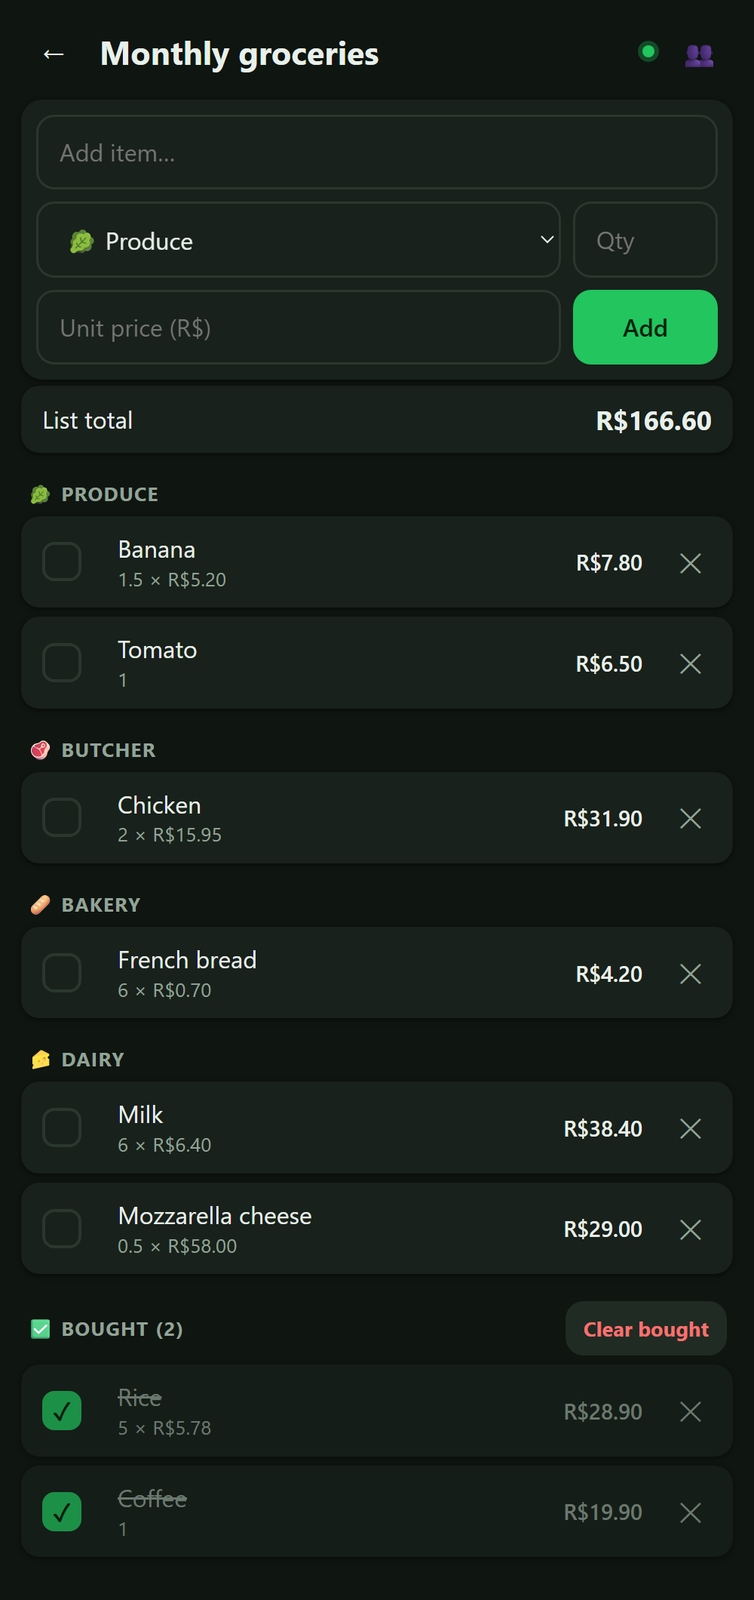
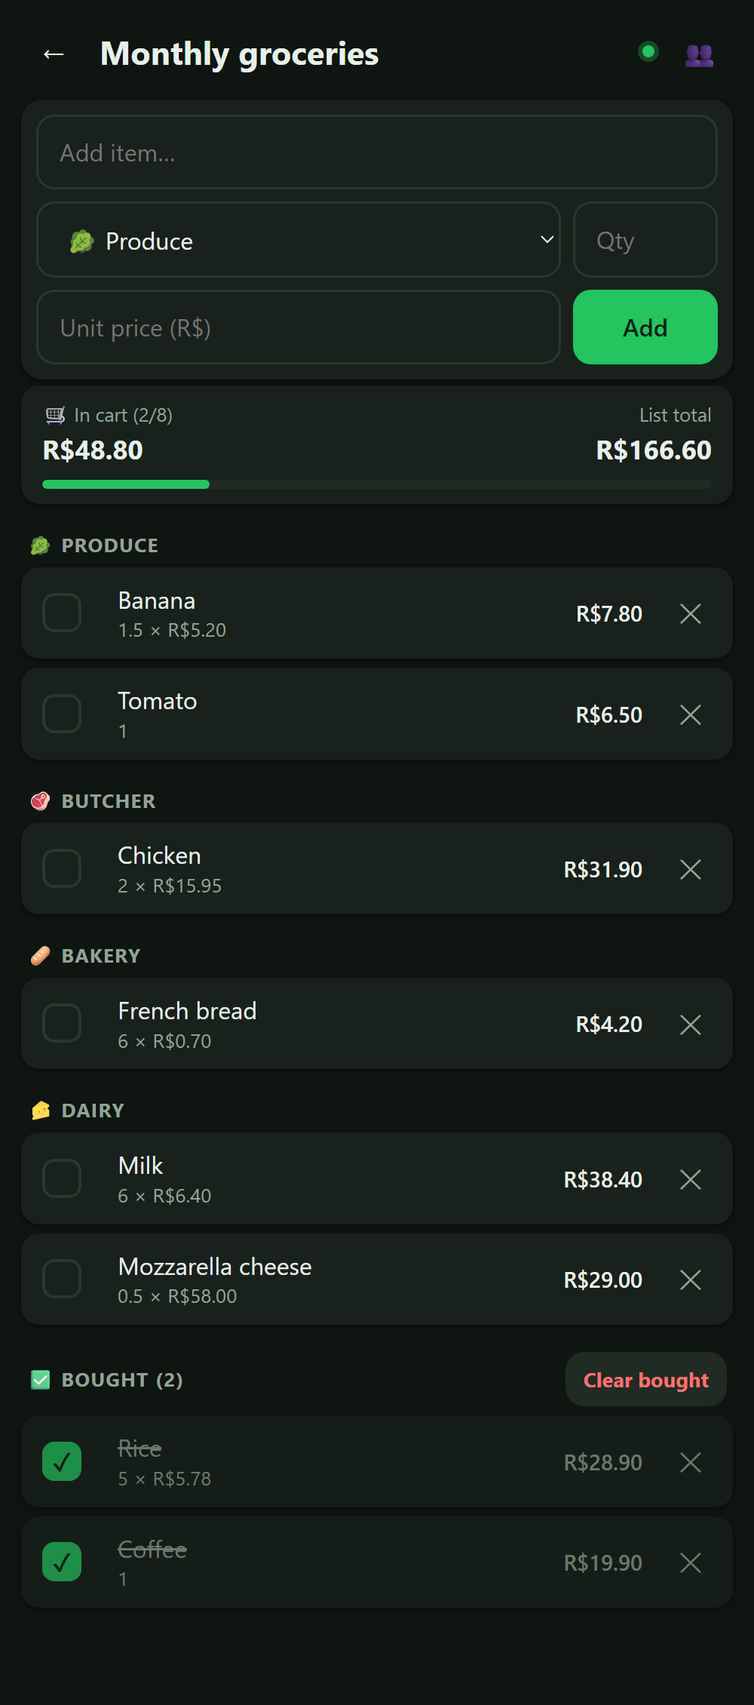
barra do carrinho na lista e botao para voltar ao site na tela de login; capturas e textos atualizados

diff --git a/js/i18n.js b/js/i18n.js
@@ -27,6 +27,7 @@ export function setLang(l) {
 export const numLocale = () => NUM_LOCALE[lang];
 export const decimalSep = () => (lang === 'en' ? '.' : ',');
 
+export const SITE_URL = { pt: '/', en: '/en/', es: '/es/' }; // site da FLR Sistemas, no idioma atual
 export const HELP_URL = { pt: '/listadecompras/ajuda/', en: '/listadecompras/ajuda/en/', es: '/listadecompras/ajuda/es/' };
 export const PRIVACY_URL = { pt: '/listadecompras/privacy.html', en: '/listadecompras/privacy-en.html', es: '/listadecompras/privacy-es.html' };
 
@@ -60,7 +61,7 @@ const DICT = {
     addItemPh: 'Add item…', category: 'Category', qtyPh: 'Qty', qtyLabel: 'Quantity', pricePh: 'Unit price (R$)', priceLabel: 'Unit price', add: 'Add',
     noConnAdd: 'No connection: cannot add right now', errAddItem: 'Error adding item', errLoadItems: 'Error loading items',
     markItem: 'Mark item', remove: 'Remove', emptyList: 'Empty list.<br>Add the first item above 👆',
-    bought: '✅ Bought ({n})', clearBought: 'Clear bought', totalList: 'List total',
+    inCart: 'In cart', bought: '✅ Bought ({n})', clearBought: 'Clear bought', totalList: 'List total',
     noConnRetry: 'No connection: try again when you are back online', errUpdateItem: 'Error updating item',
     noConn: 'No connection', errRemoveItem: 'Error removing item',
     confirmClear: 'Remove {n} bought item(s)?', errClear: 'Error clearing bought items',
@@ -72,11 +73,12 @@ const DICT = {
     errDeleteList: 'Error deleting list', confirmLeave: 'Leave this list?', errLeave: 'Error leaving the list',
     srvOwnerOnly: 'Only the list owner can share it', srvNoUser: 'No registered user with this e-mail',
     refreshApp: 'Update app', refreshing: 'Updating…', refreshNeedsNet: 'Connect to the internet to update the app.', refreshFail: "Couldn't update now. Check your connection and try again.",
+    backToSite: 'Back to the FLR Sistemas site',
     tipsBtn: 'Tips', tipsTitle: '💡 Tips', tipOk: 'Got it', tipOff: "Don't show tips again", tipReset: 'Show the tips again',
     tip_welcome_t: 'Welcome to Lista de Compras! 👋',
     tip_welcome_b: '<ul><li><b>Create a list</b> in the field above, like "Monthly groceries".</li><li><b>Invite whoever shops with you</b> with the 👥 icon inside the list. Everyone sees the check marks instantly.</li><li><b>Install it on your phone:</b> in the browser menu ⋮ tap "Install app" (iPhone: Share → Add to Home Screen).</li></ul>',
     tip_list_t: 'How to use the list 🛒',
-    tip_list_b: '<ul><li><b>Tap the checkbox</b> to mark an item as bought. Tap the <b>name</b> to edit it and the ✕ to remove it.</li><li><b>Unit price × quantity:</b> enter the price of one unit and the quantity; the app calculates the item total and the list total.</li><li><b>No signal?</b> You can still check, add, edit and remove items: they sync when the connection returns.</li></ul>',
+    tip_list_b: '<ul><li><b>Tap the checkbox</b> to mark an item as bought. Tap the <b>name</b> to edit it and the ✕ to remove it.</li><li><b>Unit price × quantity:</b> enter the price of one unit and the quantity; the app calculates the item total and the list total. The top bar shows what is already <b>in the cart</b> and the list total.</li><li><b>No signal?</b> You can still check, add, edit and remove items: they sync when the connection returns.</li></ul>',
     tip_share_t: 'Sharing the list 👥',
     tip_share_b: 'The person needs an account in the app, with the <b>same e-mail</b> you type. Members see and check items, and can leave the list whenever they want. Only you, the owner, can delete the list.',
   },
@@ -103,7 +105,7 @@ const DICT = {
     addItemPh: 'Adicionar item…', category: 'Categoria', qtyPh: 'Qtd', qtyLabel: 'Quantidade', pricePh: 'Preço unitário (R$)', priceLabel: 'Preço unitário', add: 'Adicionar',
     noConnAdd: 'Sem conexão: não é possível adicionar agora', errAddItem: 'Erro ao adicionar item', errLoadItems: 'Erro ao carregar itens',
     markItem: 'Marcar item', remove: 'Remover', emptyList: 'Lista vazia.<br>Adicione o primeiro item acima 👆',
-    bought: '✅ Comprados ({n})', clearBought: 'Limpar comprados', totalList: 'Total da lista',
+    inCart: 'No carrinho', bought: '✅ Comprados ({n})', clearBought: 'Limpar comprados', totalList: 'Total da lista',
     noConnRetry: 'Sem conexão: tente novamente quando voltar o sinal', errUpdateItem: 'Erro ao atualizar item',
     noConn: 'Sem conexão', errRemoveItem: 'Erro ao remover item',
     confirmClear: 'Remover {n} item(ns) comprado(s)?', errClear: 'Erro ao limpar comprados',
@@ -115,11 +117,12 @@ const DICT = {
     errDeleteList: 'Erro ao excluir lista', confirmLeave: 'Sair desta lista?', errLeave: 'Erro ao sair da lista',
     srvOwnerOnly: 'Somente o dono da lista pode compartilhá-la', srvNoUser: 'Nenhum usuário cadastrado com este e-mail',
     refreshApp: 'Atualizar app', refreshing: 'Atualizando…', refreshNeedsNet: 'Conecte-se à internet para atualizar o app.', refreshFail: 'Não foi possível atualizar agora. Verifique a conexão e tente de novo.',
+    backToSite: 'Voltar ao site da FLR Sistemas',
     tipsBtn: 'Dicas', tipsTitle: '💡 Dicas', tipOk: 'Entendi', tipOff: 'Não mostrar mais dicas', tipReset: 'Mostrar as dicas de novo',
     tip_welcome_t: 'Bem-vindo ao Lista de Compras! 👋',
     tip_welcome_b: '<ul><li><b>Crie uma lista</b> no campo acima, como "Mercado do mês".</li><li><b>Convide quem compra com você</b> pelo ícone 👥 dentro da lista. Todos veem as marcações na hora.</li><li><b>Instale no celular:</b> no menu ⋮ do navegador, toque em "Instalar app" (iPhone: Compartilhar → Adicionar à Tela de Início).</li></ul>',
     tip_list_t: 'Como usar a lista 🛒',
-    tip_list_b: '<ul><li><b>Toque no quadradinho</b> para marcar como comprado. Toque no <b>nome</b> para editar e no ✕ para remover.</li><li><b>Preço unitário × quantidade:</b> informe o preço de uma unidade e a quantidade; o app calcula o total do item e o da lista.</li><li><b>Sem sinal?</b> Pode marcar, adicionar, editar e remover itens do mesmo jeito: eles sincronizam quando a conexão voltar.</li></ul>',
+    tip_list_b: '<ul><li><b>Toque no quadradinho</b> para marcar como comprado. Toque no <b>nome</b> para editar e no ✕ para remover.</li><li><b>Preço unitário × quantidade:</b> informe o preço de uma unidade e a quantidade; o app calcula o total do item e o da lista. A barra do topo mostra o que já está <b>no carrinho</b> e o total da lista.</li><li><b>Sem sinal?</b> Pode marcar, adicionar, editar e remover itens do mesmo jeito: eles sincronizam quando a conexão voltar.</li></ul>',
     tip_share_t: 'Compartilhar a lista 👥',
     tip_share_b: 'A pessoa precisa ter uma conta no app, com o <b>mesmo e-mail</b> que você digitar. Quem participa vê e marca os itens, e pode sair da lista quando quiser. Só você, o dono, pode excluir a lista.',
   },
@@ -146,7 +149,7 @@ const DICT = {
     addItemPh: 'Agregar artículo…', category: 'Categoría', qtyPh: 'Cant.', qtyLabel: 'Cantidad', pricePh: 'Precio unitario (R$)', priceLabel: 'Precio unitario', add: 'Agregar',
     noConnAdd: 'Sin conexión: no se puede agregar ahora', errAddItem: 'Error al agregar el artículo', errLoadItems: 'Error al cargar los artículos',
     markItem: 'Marcar artículo', remove: 'Quitar', emptyList: 'Lista vacía.<br>Agrega el primer artículo arriba 👆',
-    bought: '✅ Comprados ({n})', clearBought: 'Limpiar comprados', totalList: 'Total de la lista',
+    inCart: 'En el carrito', bought: '✅ Comprados ({n})', clearBought: 'Limpiar comprados', totalList: 'Total de la lista',
     noConnRetry: 'Sin conexión: inténtalo de nuevo cuando vuelva la señal', errUpdateItem: 'Error al actualizar el artículo',
     noConn: 'Sin conexión', errRemoveItem: 'Error al quitar el artículo',
     confirmClear: '¿Quitar {n} artículo(s) comprado(s)?', errClear: 'Error al limpiar los comprados',
@@ -158,11 +161,12 @@ const DICT = {
     errDeleteList: 'Error al eliminar la lista', confirmLeave: '¿Salir de esta lista?', errLeave: 'Error al salir de la lista',
     srvOwnerOnly: 'Solo el dueño de la lista puede compartirla', srvNoUser: 'No hay ningún usuario registrado con este correo',
     refreshApp: 'Actualizar app', refreshing: 'Actualizando…', refreshNeedsNet: 'Conéctate a internet para actualizar la app.', refreshFail: 'No se pudo actualizar ahora. Revisa tu conexión e inténtalo de nuevo.',
+    backToSite: 'Volver al sitio de FLR Sistemas',
     tipsBtn: 'Consejos', tipsTitle: '💡 Consejos', tipOk: 'Entendido', tipOff: 'No mostrar más consejos', tipReset: 'Mostrar los consejos de nuevo',
     tip_welcome_t: '¡Bienvenido a Lista de Compras! 👋',
     tip_welcome_b: '<ul><li><b>Crea una lista</b> en el campo de arriba, como "Compra del mes".</li><li><b>Invita a quien compra contigo</b> con el ícono 👥 dentro de la lista. Todos ven las marcas al instante.</li><li><b>Instálala en el celular:</b> en el menú ⋮ del navegador toca "Instalar app" (iPhone: Compartir → Añadir a pantalla de inicio).</li></ul>',
     tip_list_t: 'Cómo usar la lista 🛒',
-    tip_list_b: '<ul><li><b>Toca el cuadradito</b> para marcar como comprado. Toca el <b>nombre</b> para editar y la ✕ para quitar.</li><li><b>Precio unitario × cantidad:</b> indica el precio de una unidad y la cantidad; la app calcula el total del artículo y el de la lista.</li><li><b>¿Sin señal?</b> Puedes marcar, agregar, editar y quitar artículos igual: se sincronizan cuando vuelva la conexión.</li></ul>',
+    tip_list_b: '<ul><li><b>Toca el cuadradito</b> para marcar como comprado. Toca el <b>nombre</b> para editar y la ✕ para quitar.</li><li><b>Precio unitario × cantidad:</b> indica el precio de una unidad y la cantidad; la app calcula el total del artículo y el de la lista. La barra de arriba muestra lo que ya está <b>en el carrito</b> y el total de la lista.</li><li><b>¿Sin señal?</b> Puedes marcar, agregar, editar y quitar artículos igual: se sincronizan cuando vuelva la conexión.</li></ul>',
     tip_share_t: 'Compartir la lista 👥',
     tip_share_b: 'La persona necesita una cuenta en la app, con el <b>mismo correo</b> que escribas. Quien participa ve y marca los artículos, y puede salir de la lista cuando quiera. Solo tú, el dueño, puedes eliminar la lista.',
   },

diff --git a/css/style.css b/css/style.css
@@ -59,6 +59,9 @@ input:focus, select:focus { outline: 2px solid var(--primary); outline-offset: 1
 .card { background: var(--surface); border-radius: var(--radius); box-shadow: var(--shadow); }
 
 /* Auth */
+.back-site { display: inline-flex; align-items: center; gap: 6px; min-height: 44px; padding: 0 6px; margin-left: -6px; color: var(--muted); text-decoration: none; font-size: .95rem; }
+.back-site:hover, .back-site:focus-visible { color: var(--text); text-decoration: underline; }
+.back-site + .auth { margin-top: 3vh; }
 .auth { margin-top: 8vh; text-align: center; }
 .auth .logo { width: 84px; height: 84px; border-radius: 22px; box-shadow: var(--shadow); }
 .auth h1 { margin: 14px 0 4px; font-size: 1.6rem; }
@@ -104,7 +107,12 @@ input:focus, select:focus { outline: 2px solid var(--primary); outline-offset: 1
 .appfoot button { min-height: 36px; padding: 4px 12px; font-size: .85rem; color: var(--muted); }
 .appfoot .ver { opacity: .7; }
 .pending { margin: 4px 0 8px; padding: 8px 12px; border-radius: 10px; font-size: .85rem; background: #f59e0b; color: #1f1300; }
-.total-bar { display: flex; justify-content: space-between; align-items: center; padding: 10px 14px; margin: 4px 0 8px; background: var(--surface); border-radius: 12px; box-shadow: var(--shadow); }
+.tb-col { display: flex; flex-direction: column; gap: 2px; min-width: 0; }
+.tb-col span { font-size: .8rem; color: var(--muted); }
+.tb-col.end { align-items: flex-end; text-align: right; }
+.tb-prog { flex-basis: 100%; height: 6px; border-radius: 99px; background: var(--surface-2); overflow: hidden; }
+.tb-prog i { display: block; height: 100%; background: var(--primary); border-radius: 99px; transition: width .25s; }
+.total-bar { display: flex; flex-wrap: wrap; justify-content: space-between; align-items: center; gap: 8px 12px; padding: 10px 14px; margin: 4px 0 8px; background: var(--surface); border-radius: 12px; box-shadow: var(--shadow); }
 .total-bar strong { font-size: 1.1rem; font-variant-numeric: tabular-nums; }
 .list-card .total { font-weight: 700; font-variant-numeric: tabular-nums; white-space: nowrap; }
 .item .pend { font-size: .8rem; opacity: .8; }

diff --git a/sobre/es/index.html b/sobre/es/index.html
@@ -136,8 +136,8 @@
         <p>¿Marcaste la leche como comprada? Todos lo ven al instante, sin recargar la página.</p>
       </div>
       <div class="card">
-        <h4>Precio y total</h4>
-        <p>Indica el precio unitario: la app lo multiplica por la cantidad y muestra el total de cada lista, ya en las tarjetas de la pantalla inicial.</p>
+        <h4>Carrito y total</h4>
+        <p>Indica el precio unitario: la app lo multiplica por la cantidad y muestra, arriba de la lista, lo que ya está en el carrito y el total. El total de cada lista aparece en las tarjetas de la pantalla inicial.</p>
       </div>
       <div class="card">
         <h4>Por categoría</h4>
@@ -157,17 +157,17 @@
     <p class="note" style="margin:0 0 10px">Pantallas de la app con datos de ejemplo.</p>
     <div class="shots">
       <figure>
-        <img src="/listadecompras/sobre/img/lista-listas-es.png" width="1000" height="2120" loading="lazy"
+        <img src="/listadecompras/sobre/img/lista-listas-es.png" width="1000" height="2260" loading="lazy"
              alt="Pantalla con las listas de compras y el total de cada una.">
         <figcaption>Tus listas, con el total de cada una</figcaption>
       </figure>
       <figure>
-        <img src="/listadecompras/sobre/img/lista-itens-es.png" width="1000" height="2120" loading="lazy"
+        <img src="/listadecompras/sobre/img/lista-itens-es.png" width="1000" height="2260" loading="lazy"
              alt="Pantalla de una lista con artículos por categoría, precios y el total de la lista.">
         <figcaption>Artículos por categoría, con precio</figcaption>
       </figure>
       <figure>
-        <img src="/listadecompras/sobre/img/lista-compartilhar-es.png" width="1000" height="2120" loading="lazy"
+        <img src="/listadecompras/sobre/img/lista-compartilhar-es.png" width="1000" height="2260" loading="lazy"
              alt="Ventana para compartir la lista por correo y ver los participantes.">
         <figcaption>Compartiendo con quien compra contigo</figcaption>
       </figure>

diff --git a/sobre/index.html b/sobre/index.html
@@ -146,8 +146,8 @@
         <p>Marcou o leite como comprado? Todo mundo vê na mesma hora, sem recarregar a página.</p>
       </div>
       <div class="card">
-        <h4>Preço e total</h4>
-        <p>Informe o preço unitário: o app multiplica pela quantidade e mostra o total de cada lista, já nos cartões da tela inicial.</p>
+        <h4>Carrinho e total</h4>
+        <p>Informe o preço unitário: o app multiplica pela quantidade e mostra, no topo da lista, o valor que já está no carrinho e o total. O total de cada lista aparece nos cartões da tela inicial.</p>
       </div>
       <div class="card">
         <h4>Por categoria</h4>
@@ -167,17 +167,17 @@
     <p class="note" style="margin:0 0 10px">Telas do app com dados de exemplo.</p>
     <div class="shots">
       <figure>
-        <img src="/listadecompras/sobre/img/lista-listas-pt.png" width="1000" height="2120" loading="lazy"
+        <img src="/listadecompras/sobre/img/lista-listas-pt.png" width="1000" height="2260" loading="lazy"
              alt="Tela com as listas de compras e o total de cada uma.">
         <figcaption>Suas listas, com o total de cada uma</figcaption>
       </figure>
       <figure>
-        <img src="/listadecompras/sobre/img/lista-itens-pt.png" width="1000" height="2120" loading="lazy"
+        <img src="/listadecompras/sobre/img/lista-itens-pt.png" width="1000" height="2260" loading="lazy"
              alt="Tela de uma lista com itens por categoria, preços e o total da lista.">
         <figcaption>Itens por categoria, com preço</figcaption>
       </figure>
       <figure>
-        <img src="/listadecompras/sobre/img/lista-compartilhar-pt.png" width="1000" height="2120" loading="lazy"
+        <img src="/listadecompras/sobre/img/lista-compartilhar-pt.png" width="1000" height="2260" loading="lazy"
              alt="Janela para compartilhar a lista por e-mail e ver os participantes.">
         <figcaption>Compartilhando com quem vai comprar junto</figcaption>
       </figure>

diff --git a/sobre/en/index.html b/sobre/en/index.html
@@ -136,8 +136,8 @@
         <p>Checked the milk off? Everyone sees it right away, without reloading the page.</p>
       </div>
       <div class="card">
-        <h4>Price and total</h4>
-        <p>Enter the unit price: the app multiplies it by the quantity and shows every list's total, right on the cards of the home screen.</p>
+        <h4>Cart and total</h4>
+        <p>Enter the unit price: the app multiplies it by the quantity and shows, at the top of the list, what is already in the cart and the total. Each list's total appears on the cards of the home screen.</p>
       </div>
       <div class="card">
         <h4>By category</h4>
@@ -157,17 +157,17 @@
     <p class="note" style="margin:0 0 10px">App screens with sample data.</p>
     <div class="shots">
       <figure>
-        <img src="/listadecompras/sobre/img/lista-listas-en.png" width="1000" height="2120" loading="lazy"
+        <img src="/listadecompras/sobre/img/lista-listas-en.png" width="1000" height="2260" loading="lazy"
              alt="Screen with the shopping lists and each list's total.">
         <figcaption>Your lists, with each one's total</figcaption>
       </figure>
       <figure>
-        <img src="/listadecompras/sobre/img/lista-itens-en.png" width="1000" height="2120" loading="lazy"
+        <img src="/listadecompras/sobre/img/lista-itens-en.png" width="1000" height="2260" loading="lazy"
              alt="A list screen with items by category, prices and the list total.">
         <figcaption>Items by category, with prices</figcaption>
       </figure>
       <figure>
-        <img src="/listadecompras/sobre/img/lista-compartilhar-en.png" width="1000" height="2120" loading="lazy"
+        <img src="/listadecompras/sobre/img/lista-compartilhar-en.png" width="1000" height="2260" loading="lazy"
              alt="Dialog for sharing the list by e-mail and seeing its members.">
         <figcaption>Sharing with whoever shops with you</figcaption>
       </figure>

diff --git a/js/app.js b/js/app.js
@@ -1,6 +1,6 @@
 import { createClient } from 'https://cdn.jsdelivr.net/npm/@supabase/supabase-js@2.45.4/+esm';
 import { SUPABASE_URL, SUPABASE_ANON_KEY } from './config.js';
-import { t, getLang, setLang, LANGS, LANG_NAMES, CAT_LABEL, HELP_URL, PRIVACY_URL, numLocale, decimalSep } from './i18n.js';
+import { t, getLang, setLang, LANGS, LANG_NAMES, CAT_LABEL, HELP_URL, PRIVACY_URL, SITE_URL, numLocale, decimalSep } from './i18n.js';
 
 /* ------------------------------ Utilidades ------------------------------ */
 const $ = (s, r = document) => r.querySelector(s);
@@ -351,6 +351,7 @@ function renderAuth(info = '', isErr = false) {
   const login = state.authMode === 'login';
   const L = getLang();
   app.innerHTML = `
+  <a class="back-site" href="${SITE_URL[L]}" title="${esc(t('backToSite'))}" aria-label="${esc(t('backToSite'))}">← FLR Sistemas</a>
   <section class="auth">
     <img class="logo" src="icons/icon.svg" alt="">
     <h1>Lista de Compras</h1>
@@ -652,8 +653,15 @@ function renderItems() {
   box.innerHTML = html;
 
   const total = sumPrices(state.items);
+  const inCart = state.items.filter((i) => i.is_checked);
+  const cart = sumPrices(inCart);
+  const pct = state.items.length ? Math.round((inCart.length / state.items.length) * 100) : 0;
   const bar = $('#total-bar');
-  if (bar) bar.innerHTML = `<span>${esc(t('totalList'))}</span><strong>${money(total)}</strong>`;
+  if (bar) {
+    bar.innerHTML = `<div class="tb-col"><span>🛒 ${esc(t('inCart'))} (${inCart.length}/${state.items.length})</span><strong>${money(cart)}</strong></div>
+      <div class="tb-col end"><span>${esc(t('totalList'))}</span><strong>${money(total)}</strong></div>
+      <div class="tb-prog" role="progressbar" aria-valuemin="0" aria-valuemax="100" aria-valuenow="${pct}"><i style="width:${pct}%"></i></div>`;
+  }
   if (state.listId) state.totals[state.listId] = total;
 }
 

diff --git a/ajuda/es/index.html b/ajuda/es/index.html
@@ -173,7 +173,7 @@
   </section>
 
   <section class="faq-group" id="lists">
-    <h2><span class="ico">🛒</span>Listas y artículos<span class="count">5 preguntas</span></h2>
+    <h2><span class="ico">🛒</span>Listas y artículos<span class="count">6 preguntas</span></h2>
     <div class="faq-list">
       <details><summary>¿Cómo creo una lista?</summary>
         <p>En la pantalla "Mis listas", escribe un nombre, como "Compra del mes", y toca "Crear".</p></details>
@@ -182,6 +182,8 @@
         <p>Para marcarlo como comprado, toca el cuadradito del artículo. Para editar, toca el nombre. Para quitarlo, toca la ✕.</p></details>
       <details><summary>¿Cómo indico el precio de los artículos?</summary>
         <p>Indica el precio de una unidad en el campo "Precio unitario (R$)", al agregar el artículo o al editarlo. La app lo multiplica por la cantidad: 6 artículos de R$ 6,40 aparecen como R$ 38,40. El total aparece dentro de la lista y en su tarjeta. Sin cantidad, la app cuenta 1.</p></details>
+      <details><summary>¿Cómo veo cuánto ya está en el carrito?</summary>
+        <p>La barra de arriba de la lista muestra, a la izquierda, el valor de los artículos ya marcados ("En el carrito", con la cuenta, como 2/8) y, a la derecha, el total de toda la lista. La barrita de abajo muestra cuánto de la lista ya fue al carrito. Quien comparte la lista ve los mismos valores en tiempo real, así nadie toma un artículo repetido.</p></details>
       <details><summary>¿Cómo limpio los artículos ya comprados?</summary>
         <p>En la lista, toca "Limpiar comprados", junto al título "Comprados". Esto quita solo los artículos marcados, para todos los participantes.</p></details>
       <details><summary>¿Cómo elimino una lista?</summary>

diff --git a/ajuda/index.html b/ajuda/index.html
@@ -182,7 +182,7 @@
   </section>
 
   <section class="faq-group" id="lists">
-    <h2><span class="ico">🛒</span>Listas e itens<span class="count">5 perguntas</span></h2>
+    <h2><span class="ico">🛒</span>Listas e itens<span class="count">6 perguntas</span></h2>
     <div class="faq-list">
       <details><summary>Como crio uma lista?</summary>
         <p>Na tela "Minhas listas", digite um nome, como "Mercado do mês", e toque em "Criar".</p></details>
@@ -191,6 +191,8 @@
         <p>Para marcar como comprado, toque no quadradinho do item. Para editar, toque no nome. Para remover, toque no ✕.</p></details>
       <details><summary>Como informo o preço dos itens?</summary>
         <p>Informe o preço de uma unidade no campo "Preço unitário (R$)", ao adicionar o item ou ao editá-lo. O app multiplica pela quantidade: 6 itens de R$ 6,40 aparecem como R$ 38,40. O total aparece dentro da lista e no cartão dela. Sem quantidade, o app considera 1.</p></details>
+      <details><summary>Como vejo quanto já está no carrinho?</summary>
+        <p>A barra no topo da lista mostra, à esquerda, o valor dos itens já marcados ("No carrinho", com a contagem, como 2/8) e, à direita, o total da lista inteira. A barrinha embaixo mostra quanto da lista já foi para o carrinho. Quem compartilha a lista vê os mesmos valores em tempo real, então ninguém pega item repetido.</p></details>
       <details><summary>Como limpo os itens já comprados?</summary>
         <p>Na lista, toque em "Limpar comprados", ao lado do título "Comprados". Isso remove só os itens marcados, para todos os participantes.</p></details>
       <details><summary>Como excluo uma lista?</summary>

diff --git a/ajuda/en/index.html b/ajuda/en/index.html
@@ -173,7 +173,7 @@
   </section>
 
   <section class="faq-group" id="lists">
-    <h2><span class="ico">🛒</span>Lists and items<span class="count">5 questions</span></h2>
+    <h2><span class="ico">🛒</span>Lists and items<span class="count">6 questions</span></h2>
     <div class="faq-list">
       <details><summary>How do I create a list?</summary>
         <p>On the "My lists" screen, type a name, like "Monthly groceries", and tap "Create".</p></details>
@@ -182,6 +182,8 @@
         <p>To mark an item as bought, tap its checkbox. To edit, tap the name. To remove it, tap the ✕.</p></details>
       <details><summary>How do I set item prices?</summary>
         <p>Enter the price of one unit in the "Unit price (R$)" field, when adding the item or editing it. The app multiplies it by the quantity: 6 items at R$6.40 show as R$38.40. The total shows inside the list and on its card. With no quantity, the app counts 1.</p></details>
+      <details><summary>How do I see how much is already in the cart?</summary>
+        <p>The bar at the top of the list shows, on the left, the value of the items already checked ("In cart", with the count, like 2/8) and, on the right, the total of the whole list. The thin bar below shows how much of the list is already in the cart. Everyone sharing the list sees the same values in real time, so nobody picks a duplicate.</p></details>
       <details><summary>How do I clear the items already bought?</summary>
         <p>In the list, tap "Clear bought", next to the "Bought" heading. This removes only the checked items, for every member.</p></details>
       <details><summary>How do I delete a list?</summary>

diff --git a/service-worker.js b/service-worker.js
@@ -1,5 +1,5 @@
 // Service worker — caminhos relativos (compatível com GitHub Pages em subpasta)
-const VERSION = 'v13';
+const VERSION = 'v15';
 const CACHE = `lista-compras-${VERSION}`;
 const SHELL = [
   './',
